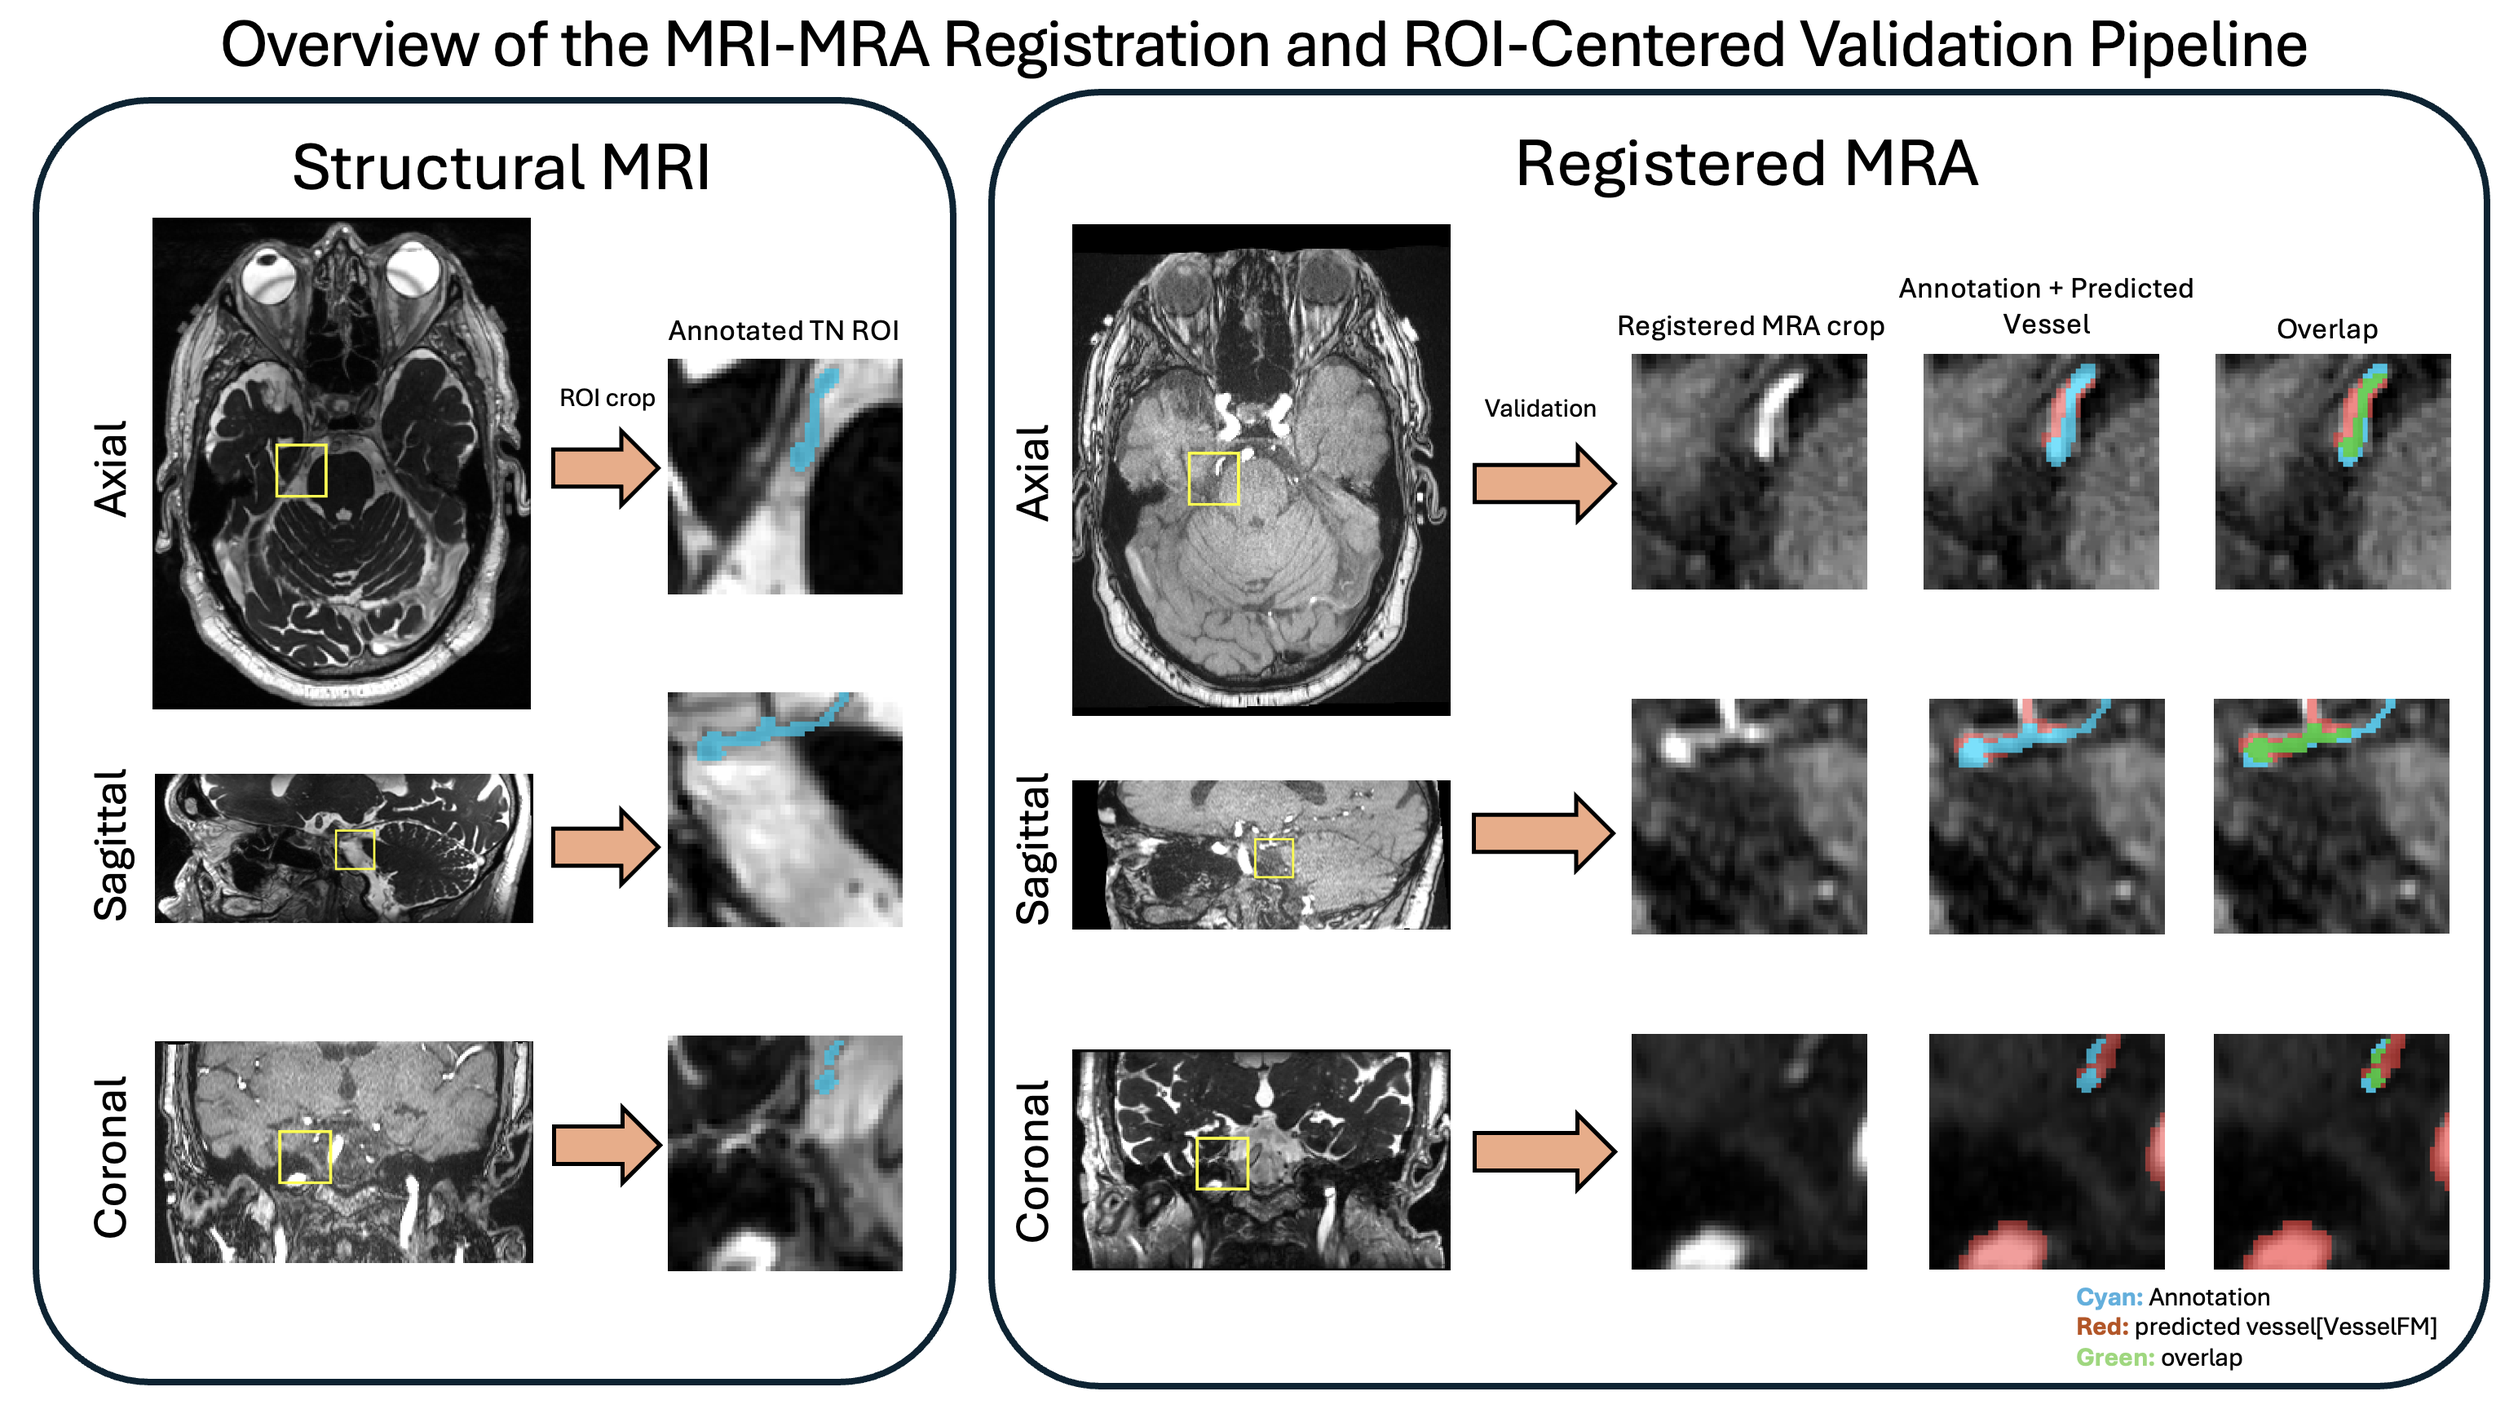
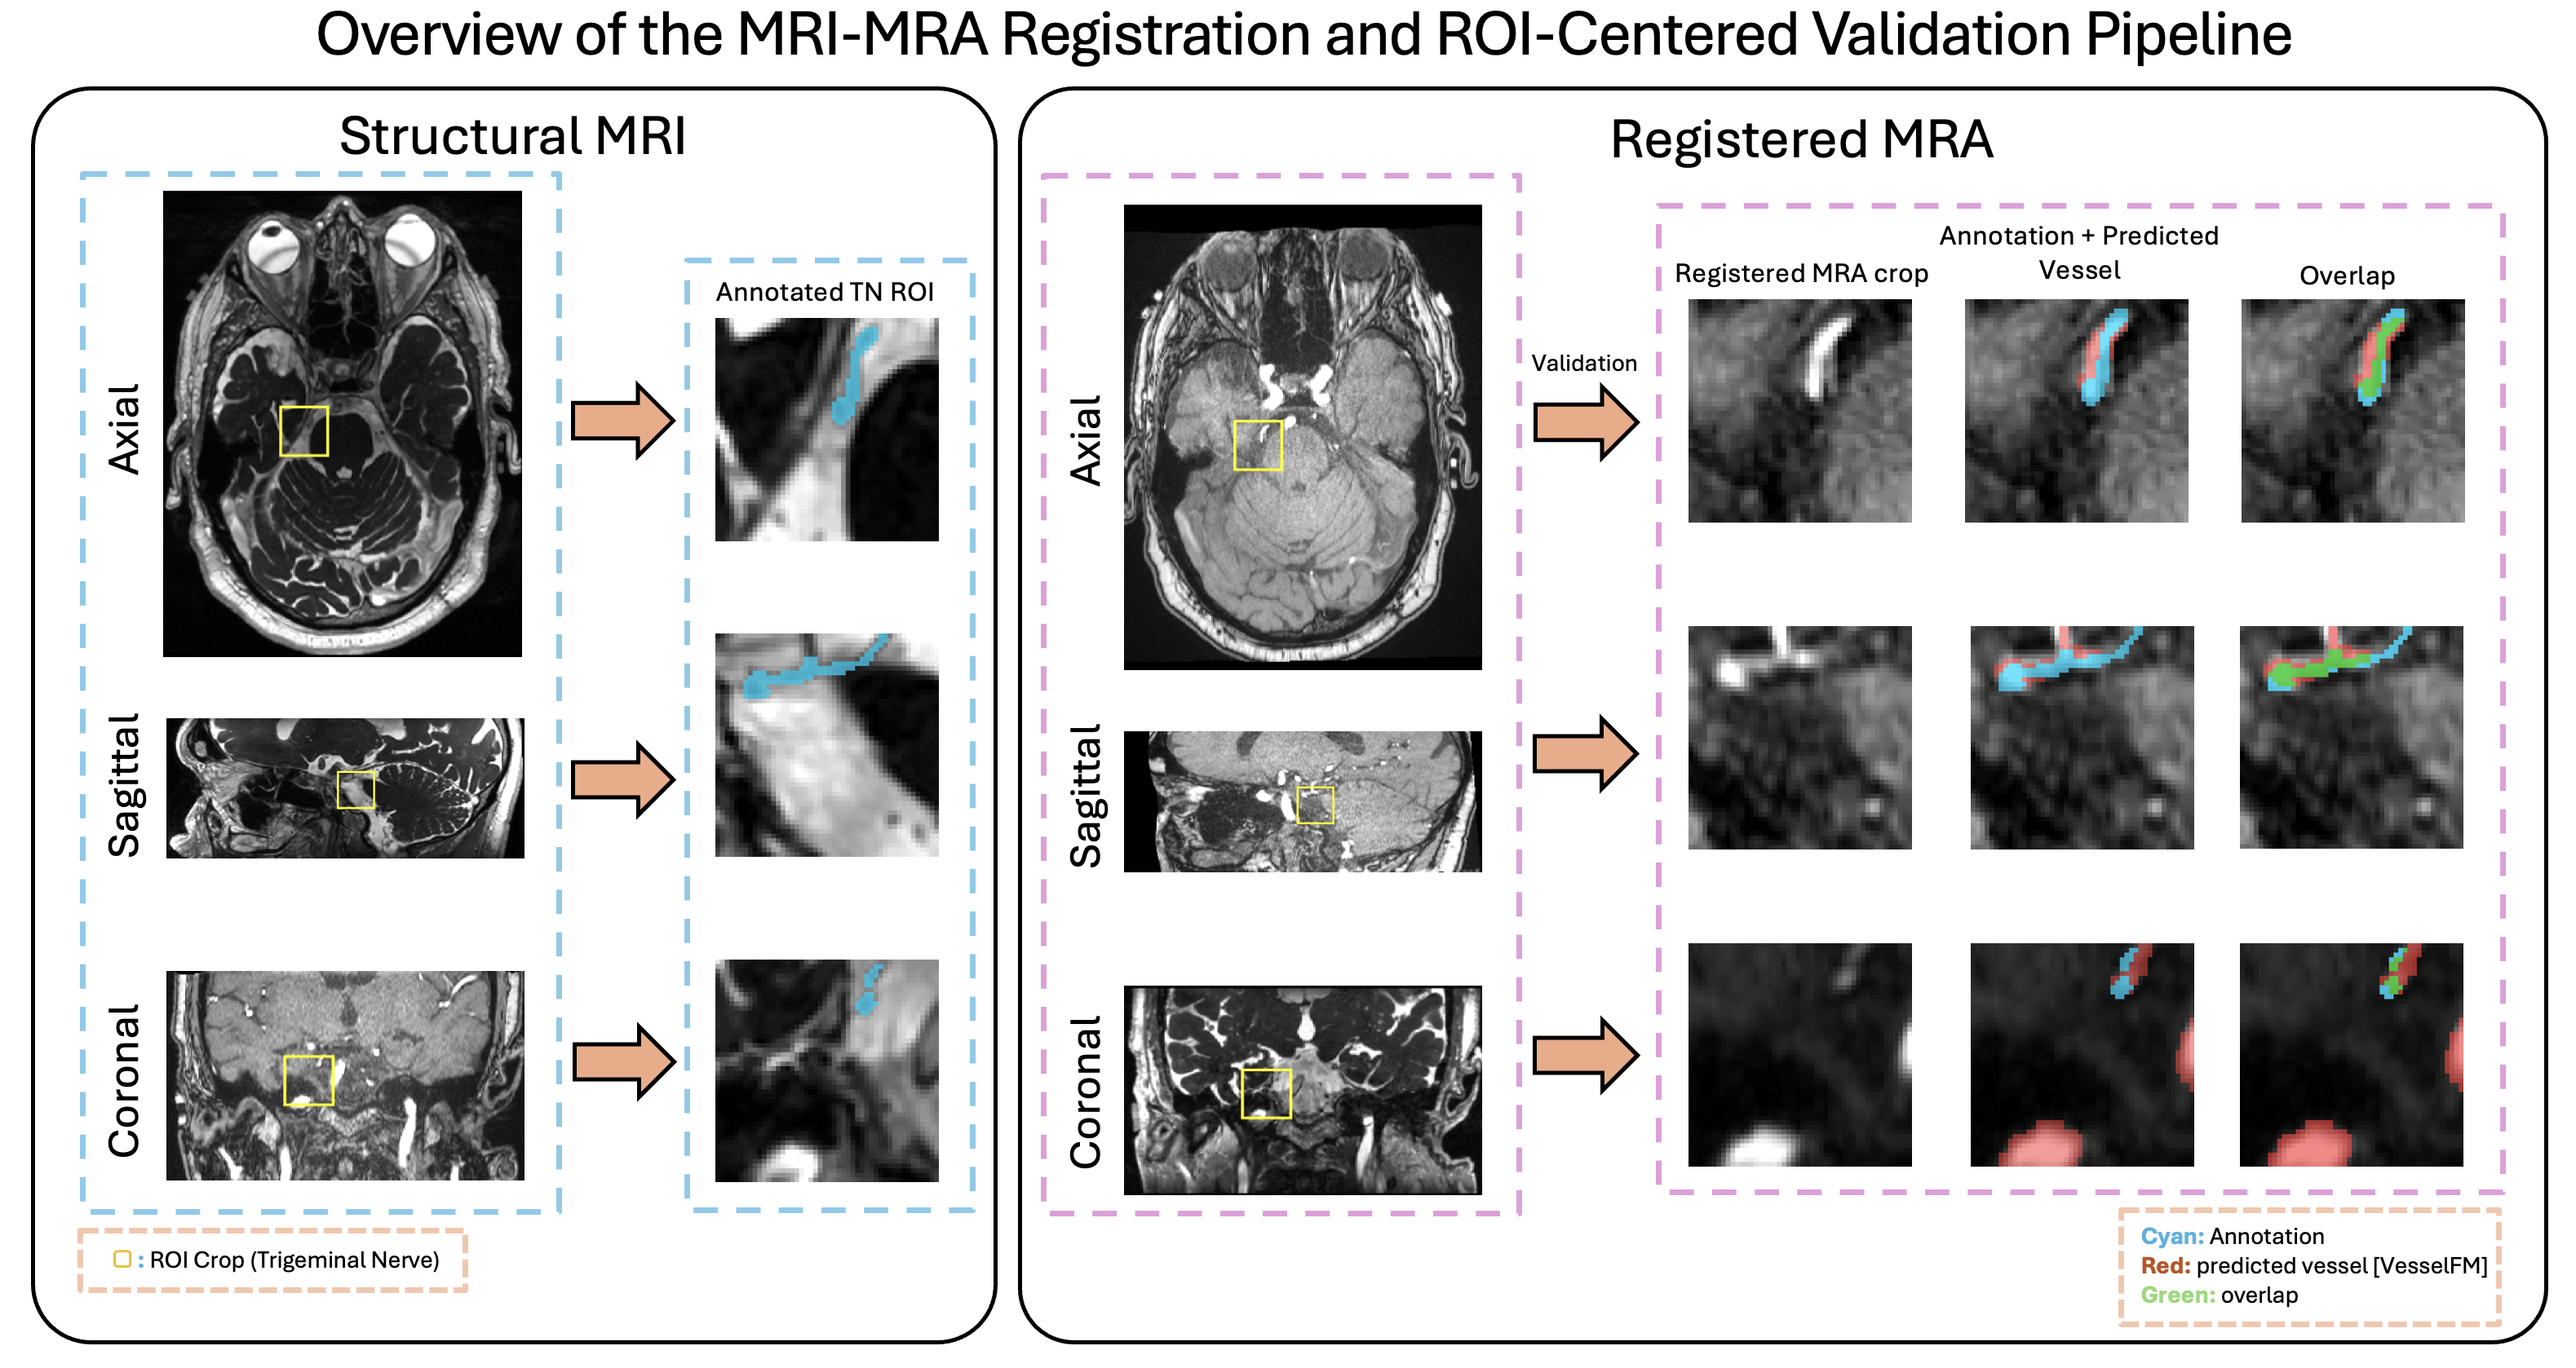
update pipeline overview figure

diff --git a/preprocessing/autocrop_with_mask.py b/preprocessing/autocrop_with_mask.py
@@ -1,4 +1,9 @@
 #!/usr/bin/env python3
+# TN-Reg-Benchmark
+# Code author: Xupeng Zhang (xzhan419@jh.edu)
+# Johns Hopkins University
+# See README for the full author list and citation.
+
 """
 Auto-Cropping Based on Mask with Padding
 This script crops MRI/MRA images to their mask bounding box with configurable padding
@@ -11,11 +16,6 @@ Key Features:
 - Crops both image and mask consistently
 - Generates cropped versions for efficient registration
 
-================================================================================
-Author: Xupeng Zhang
-Johns Hopkins University
-Date: January 27, 2026
-================================================================================
 """
 
 import os

diff --git a/Baseline_Methods/ConvexAdam/affine_prealign.py b/Baseline_Methods/ConvexAdam/affine_prealign.py
@@ -1,4 +1,9 @@
 #!/usr/bin/env python3
+# TN-Reg-Benchmark
+# Code author: Xupeng Zhang (xzhan419@jh.edu)
+# Johns Hopkins University
+# See README for the full author list and citation.
+
 """
 Affine Pre-alignment for MRI-MRA Registration (v2)
 This script performs affine registration as initialization before deformable registration
@@ -6,11 +11,6 @@ Uses SimpleITK with Mutual Information for cross-modality registration
 """
 
 """
-================================================================================
-Author: Xupeng Zhang
-Johns Hopkins University
-January 25, 2026
-================================================================================
 """
 
 import os

diff --git a/Baseline_Methods/FireANTs/run_fireants_batch.py b/Baseline_Methods/FireANTs/run_fireants_batch.py
@@ -1,5 +1,10 @@
 #!/usr/bin/env python3
 # -*- coding: utf-8 -*-
+# TN-Reg-Benchmark
+# Code author: Xupeng Zhang (xzhan419@jh.edu)
+# Johns Hopkins University
+# See README for the full author list and citation.
+
 
 """
 Run Batch FireANTs MRI fixed & MRA moving
@@ -10,8 +15,6 @@ Outputs (under --out_base):
   inversewarped/   <case>_reg_InverseWarped.nii.gz   (only if --do_inverse)
   mat/             transforms exported by fireants (ants-style) + npy rigid matrix
 
-Author: Xupeng Zhang
-Johns Hopkins University
 """
 
 import os

diff --git a/visualization/render_case_ipl_view.py b/visualization/render_case_ipl_view.py
@@ -1,4 +1,9 @@
 #!/usr/bin/env python3
+# TN-Reg-Benchmark
+# Code author: Xupeng Zhang (xzhan419@jh.edu)
+# Johns Hopkins University
+# See README for the full author list and citation.
+
 """
 Render standardized views for one TN case.
 
@@ -18,8 +23,6 @@ Key features:
 - --out-dir: write outputs to a custom directory instead of preview_<case>/
 - --compare-nifti: optional second NIfTI for side-by-side MRI vs MRA comparison
 
-Author: Xupeng Zhang
-Johns Hopkins University
 """
 
 from __future__ import annotations

diff --git a/visualization/standardize_case_view.py b/visualization/standardize_case_view.py
@@ -1,4 +1,9 @@
 #!/usr/bin/env python3
+# TN-Reg-Benchmark
+# Code author: Xupeng Zhang (xzhan419@jh.edu)
+# Johns Hopkins University
+# See README for the full author list and citation.
+
 """
 Standardized visualization for TN centroid/crop alignment.
 
@@ -15,8 +20,6 @@ Layout (each side figure): 5 rows x 3 columns
 - Row 4: TN original crop (raw)
 - Row 5: TN original crop + TN label
 
-Author: Xupeng Zhang
-Johns Hopkins University
 """
 
 from __future__ import annotations

diff --git a/preprocessing/generate_brain_masks.py b/preprocessing/generate_brain_masks.py
@@ -1,11 +1,13 @@
 #!/usr/bin/env python3
+# TN-Reg-Benchmark
+# Code author: Xupeng Zhang (xzhan419@jh.edu)
+# Johns Hopkins University
+# See README for the full author list and citation.
+
 """
 Brain Mask Generation for MRI and MRA Images
 Generates binary masks to remove black background for reverse registration
 
-Author: Xupeng Zhang
-Johns Hopkins University
-Date: January 27, 2026
 """
 
 import os

diff --git a/Baseline_Methods/ConvexAdam/run_convexadam_cpu_fallback.py b/Baseline_Methods/ConvexAdam/run_convexadam_cpu_fallback.py
@@ -1,11 +1,14 @@
 #!/usr/bin/env python3
+# TN-Reg-Benchmark
+# Code author: Xupeng Zhang (xzhan419@jh.edu)
+# Johns Hopkins University
+# See README for the full author list and citation.
+
 """
 Run Batch in ConvexAdam MRI fixed & MRA Moving — CPU fallback
 
 Uses convex_adam_pt (low-level API) so we can pass `device="cpu"`.
 
-Author: Xupeng Zhang
-Johns Hopkins University
 """
 
 import os

diff --git a/preprocessing/preprocess_ras_normalization.py b/preprocessing/preprocess_ras_normalization.py
@@ -1,10 +1,13 @@
 #!/usr/bin/env python3
+# TN-Reg-Benchmark
+# Code author: Xupeng Zhang (xzhan419@jh.edu)
+# Johns Hopkins University
+# See README for the full author list and citation.
+
 """
 Lightweight Preprocessing: RAS Orientation
 Only does essential preprocessing without heavy resampling.
 
-Xupeng Zhang
-Johns Hopkins University
 """
 
 import os

diff --git a/analysis/build_supp_table_s1.py b/analysis/build_supp_table_s1.py
@@ -1,3 +1,8 @@
+# TN-Reg-Benchmark
+# Code author: Xupeng Zhang (xzhan419@jh.edu)
+# Johns Hopkins University
+# See README for the full author list and citation.
+
 # ============================================================
 # Build Supplementary Table S1 — DICOMDIR-aware version.
 # DICOMs here look like /raw/mri/<MRN>/<HASH1>/<HASH2>/I1000000

diff --git a/analysis/compute_fov_metadata.py b/analysis/compute_fov_metadata.py
@@ -1,3 +1,8 @@
+# TN-Reg-Benchmark
+# Code author: Xupeng Zhang (xzhan419@jh.edu)
+# Johns Hopkins University
+# See README for the full author list and citation.
+
 # ============================================================
 # Compute r_min FOV ratio for each case from raw NIfTI headers.
 # MRN is zero-padded to 8 digits to match file naming.

diff --git a/eval/metrics/__init__.py b/eval/metrics/__init__.py
@@ -1,3 +1,8 @@
+# TN-Reg-Benchmark
+# Code author: Xupeng Zhang (xzhan419@jh.edu)
+# Johns Hopkins University
+# See README for the full author list and citation.
+
 """ROI metric functions: Track A (image-based) and Track B (vessel-proximity)."""
 from .common import dice_score
 from .track_a_intensity import compute_track_a, TRACK_A_COLS

diff --git a/eval/_common_vis.py b/eval/_common_vis.py
@@ -1,3 +1,8 @@
+# TN-Reg-Benchmark
+# Code author: Xupeng Zhang (xzhan419@jh.edu)
+# Johns Hopkins University
+# See README for the full author list and citation.
+
 """Thin re-export of the low-level visualization helpers used by case/Fig.1 code.
 
 These live in the repository's ``visualization`` package (standardize_case_view.py,
